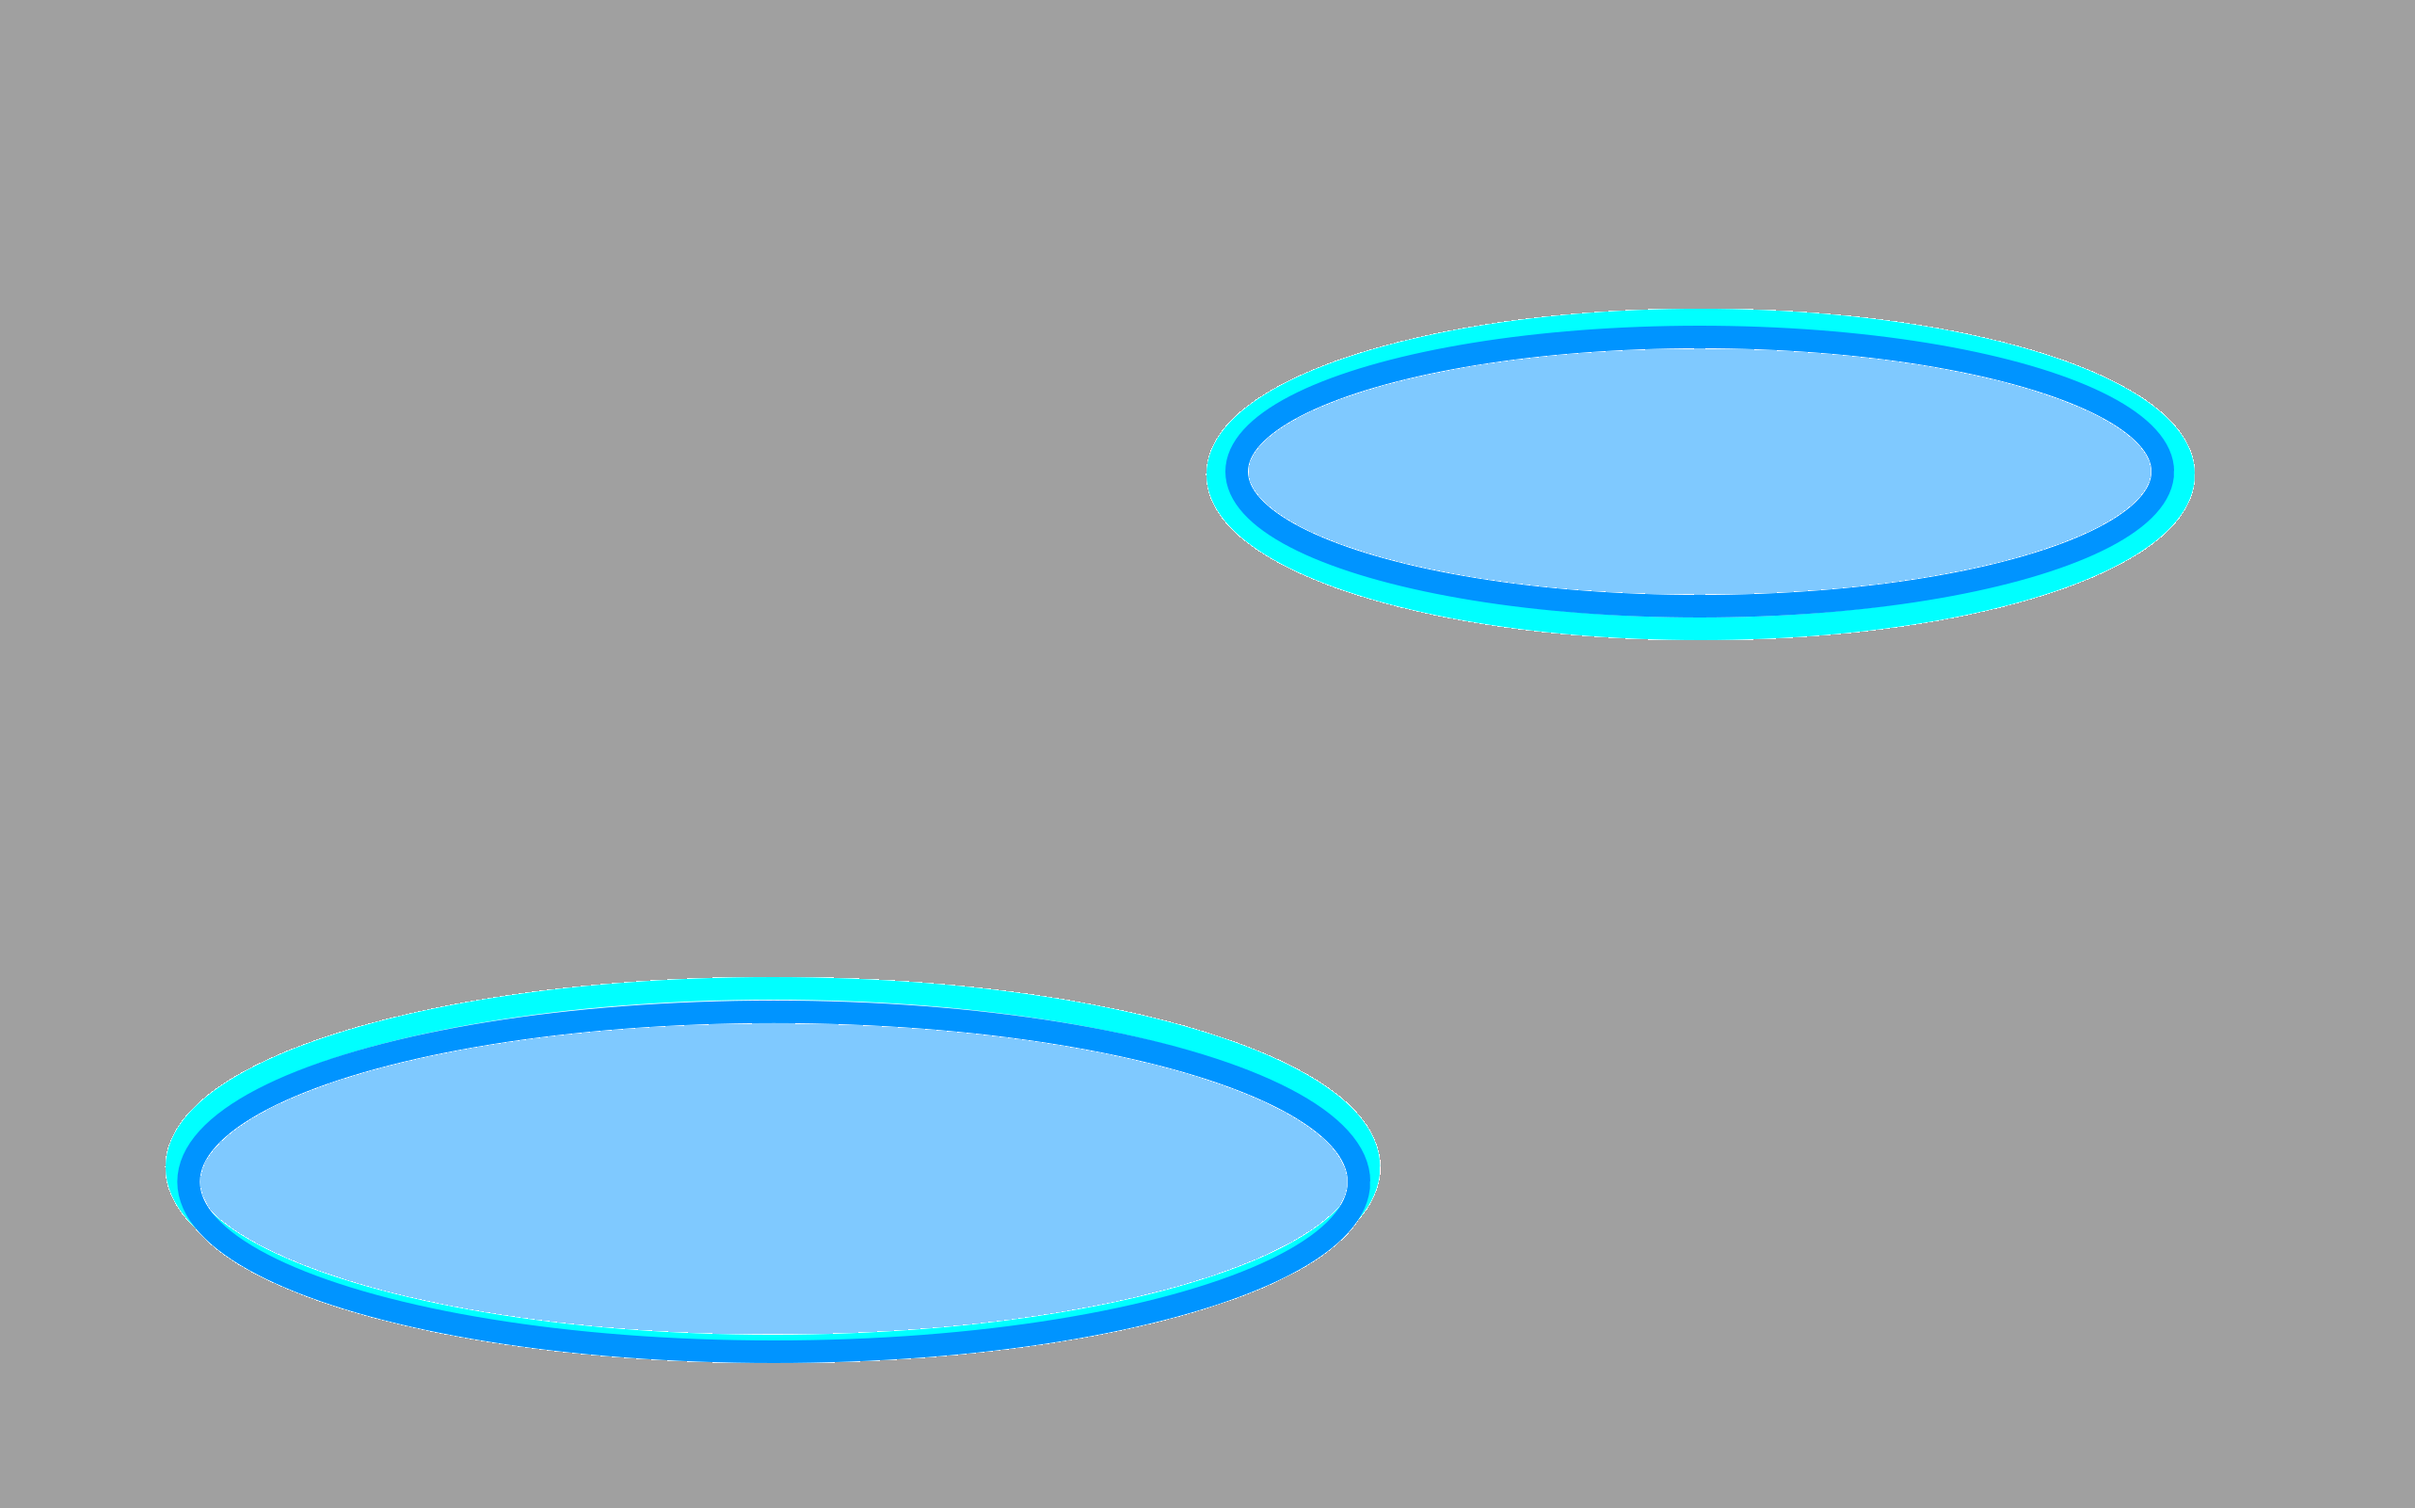
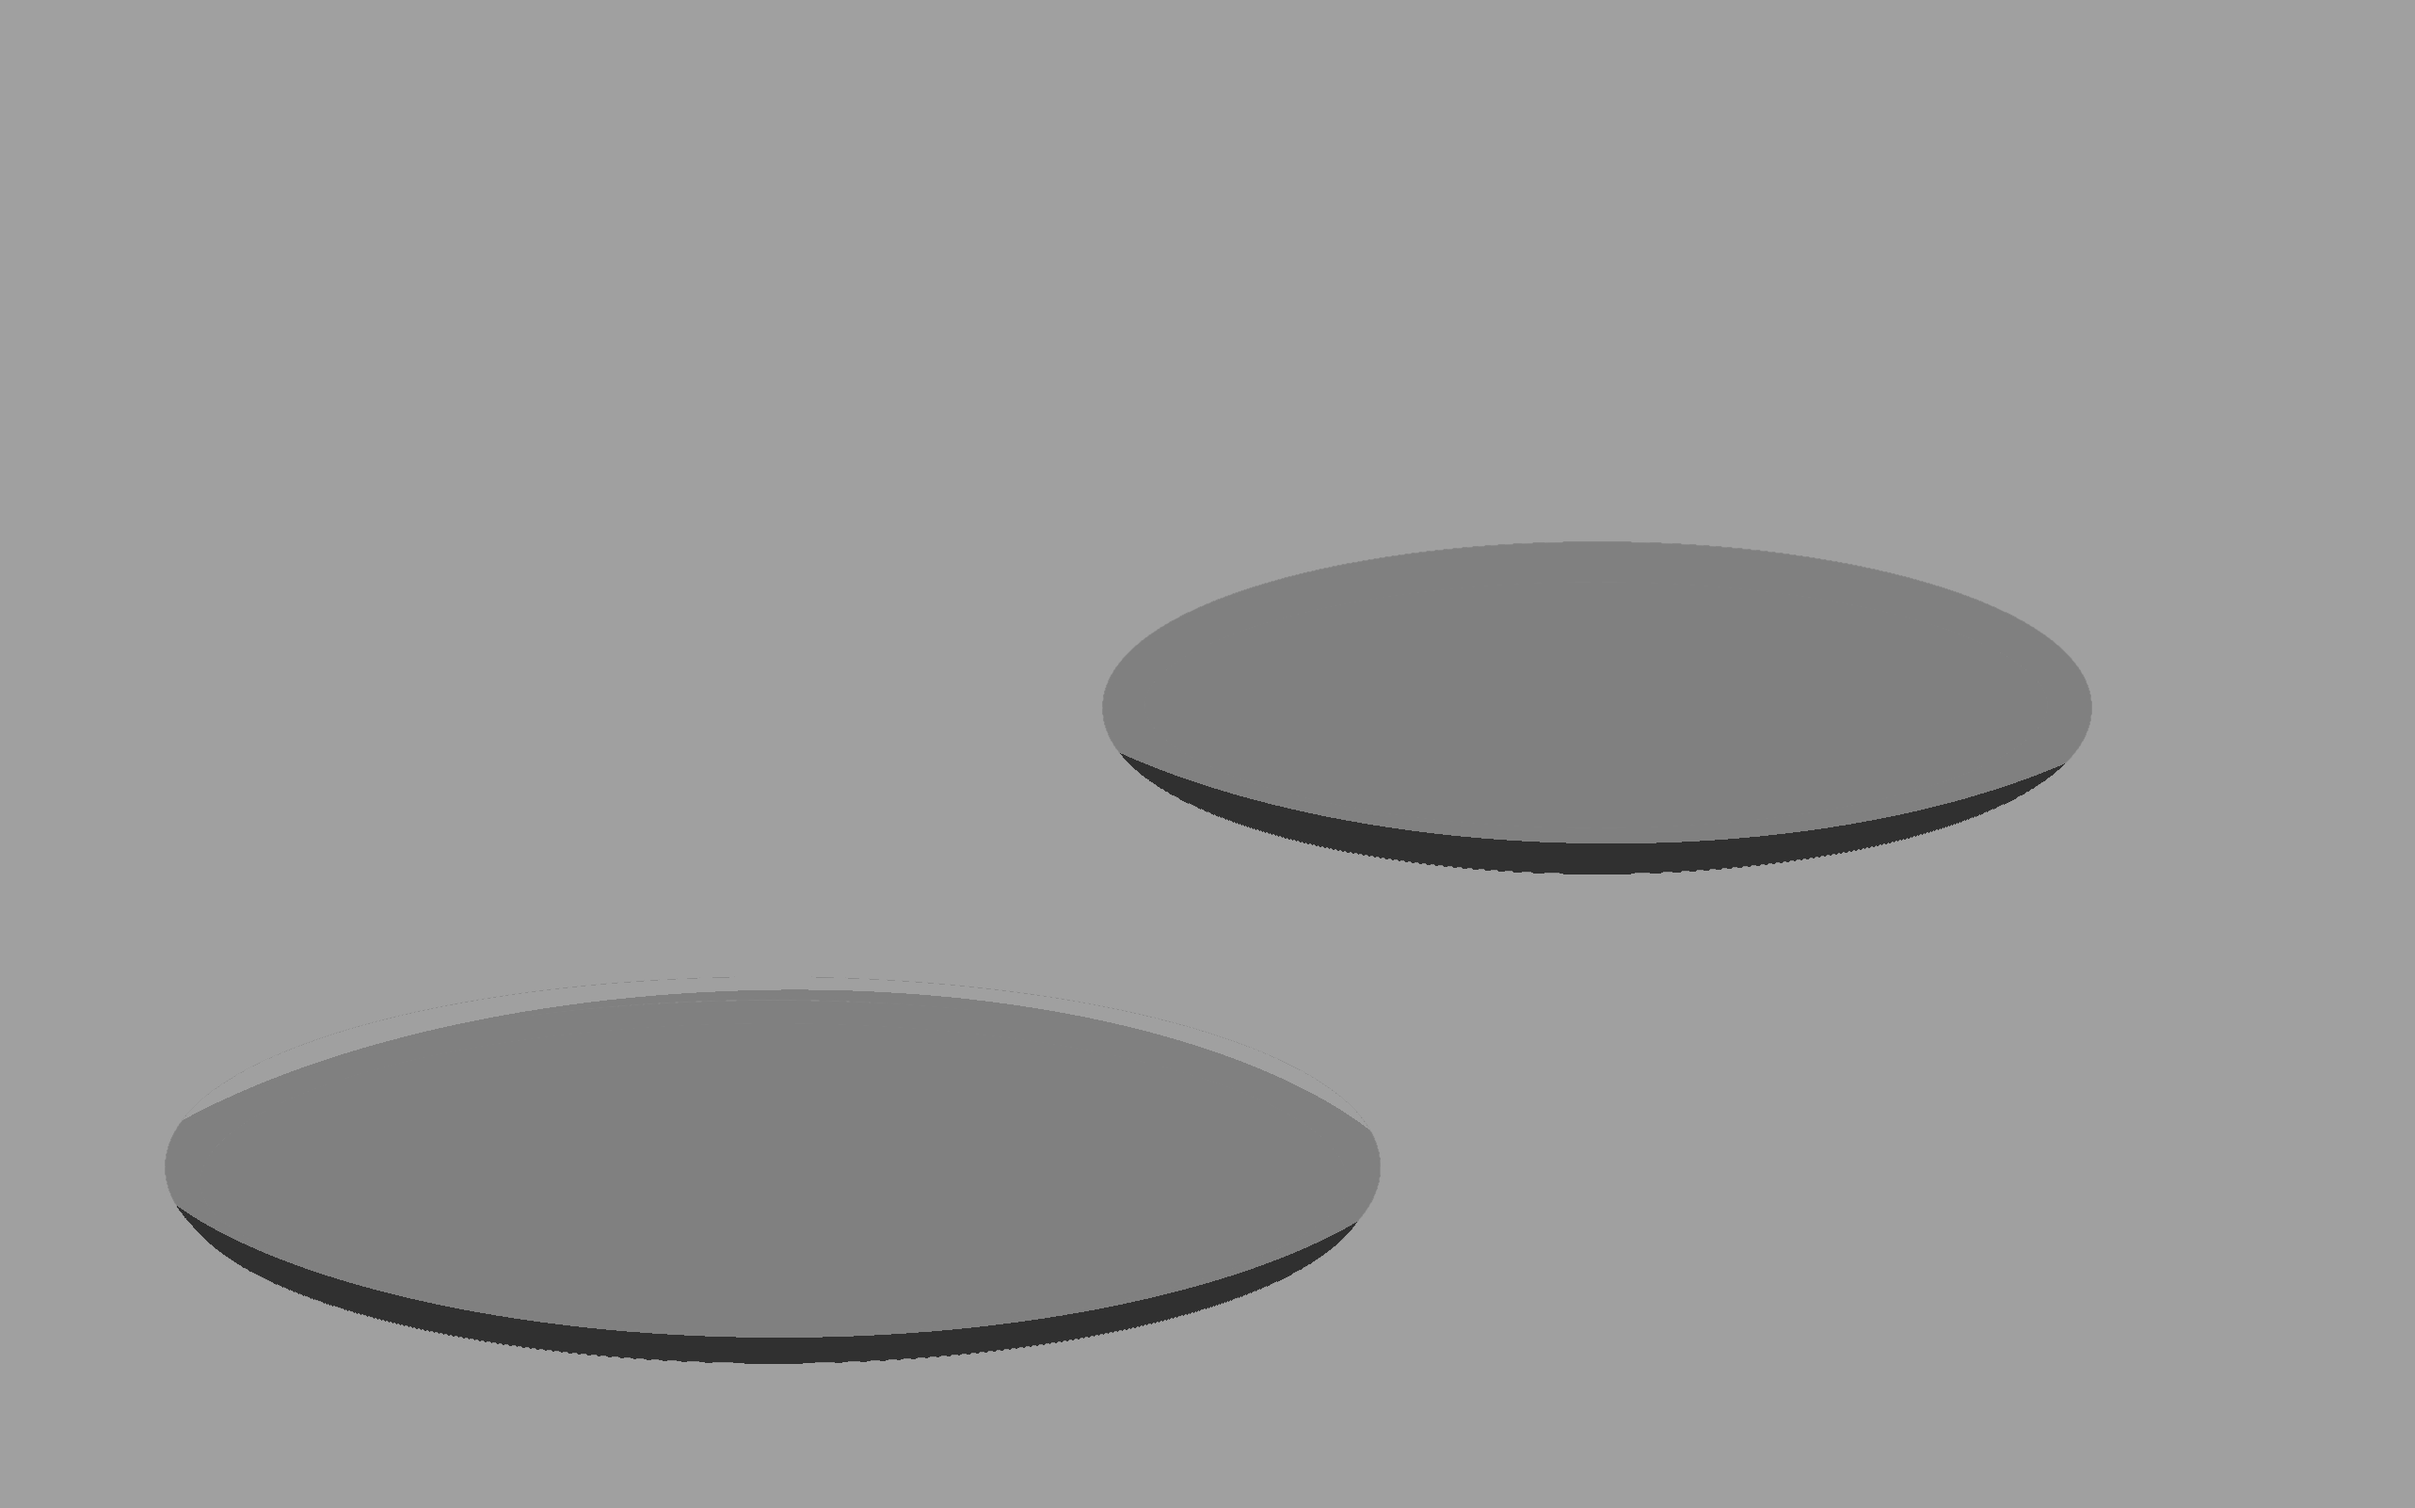
Battle UI prahamoni

Changed region(s): [[0.4365, 0.1873, 0.9041, 0.593], [0.0624, 0.6242, 0.5924, 0.9051]]

diff --git a/gadakecemol.py b/gadakecemol.py
@@ -71,8 +71,17 @@ class Hra:
 
 
         self.prahamon = [
-            npc.Prahamon("Ohnivak", 15)
+            npc.Prahamon("Ptak", 15, 15, 1),
+            npc.Prahamon("Twitter", 15, 15, 2),
+            npc.Prahamon("Twilight", 20, 20, 3),
             # prahamoni
+        ]
+
+        self.protivnici = [
+            npc.Prahamon("Ptak", 10, 15, 1),
+            npc.Prahamon("Twitter", 15, 15, 2),
+            npc.Prahamon("Twilight", 20, 20, 3),
+
         ]
 
         for p in self.prahamon:
@@ -259,18 +268,35 @@ class Hra:
                     self.catch = False
 
             if hra.battle:
-                prahamon = list(prahadex.prahadex.prahamoni.values())[0]
+
                 self.screen.fill((0, 40, 0))
-                self.screen.blit(imgs.battleground, (0,0))
-                self.screen.blit(imgs.battlemenu, (0,0))
-                self.screen.blit(self.font.render(prahamon.name, False, (150, 150, 150)), (922, 372))
-                self.screen.blit(self.font.render(prahamon.name, False, (0, 0, 0)), (920, 370))
-                self.screen.blit(self.font.render(f"HP: {prahamon.hp}", False, (150, 150, 150)), (922, 422))
-                self.screen.blit(self.font.render(f"HP: {prahamon.hp}", False, (0, 0, 0)), (920, 420))
+                self.screen.blit(imgs.battleground, (0, 0))
+
+                prahamon = list(prahadex.prahadex.prahamoni.values())[0]
+                protivnik = self.protivnici[0]
 
                 obrazek = imgs.prahamon_obrazky.get(prahamon.name)
                 if obrazek:
-                    self.screen.blit(obrazek, (200, 500))
+                    self.screen.blit(obrazek, (100, 220))
+
+                imgprotivnika = imgs.prahamon_obrazky.get("Ptak;")
+                if imgprotivnika:
+                    self.screen.blit(imgprotivnika, (622, 33))
+
+
+                self.screen.blit(imgs.battlemenu, (0,0))
+                self.screen.blit(self.font.render(f"{prahamon.name} lvl. {prahamon.lvl}", False, (150, 150, 150)),
+                                 (922, 372))
+                self.screen.blit(self.font.render(f"{prahamon.name} lvl. {prahamon.lvl}", False, (0, 0, 0)), (920, 370))
+                self.screen.blit(self.font.render(f"HP: {prahamon.hp}/{prahamon.maxhp}", False, (150, 150, 150)),
+                                 (922, 422))
+                self.screen.blit(self.font.render(f"HP: {prahamon.hp}/{prahamon.maxhp}", False, (0, 0, 0)), (920, 420))
+                self.screen.blit(self.font.render(f"{protivnik.name} lvl. {protivnik.lvl}", False, (150, 150, 150)),
+                                 (68, 74))
+                self.screen.blit(self.font.render(f"{protivnik.name} lvl. {protivnik.lvl}", False, (0, 0, 0)), (66, 72))
+                self.screen.blit(self.font.render(f"HP: {protivnik.hp}/{protivnik.maxhp}", False, (150, 150, 150)),
+                                 (68, 124))
+                self.screen.blit(self.font.render(f"HP: {protivnik.hp}/{protivnik.maxhp}", False, (0, 0, 0)), (66, 122))
 
             # pygame.draw.rect(self.screen, (0, 0, 0), (1060 - self.camera_x, 0 - self.camera_y, 820, 400), 2)
 

diff --git a/nastaveni.py b/nastaveni.py
@@ -17,7 +17,7 @@ def img(path, size=None):
 velikost_postavy = (96, 96)
 
 oak = img("obrazky/oak.png", (51,64))
-ptak = img("obrazky/ptak.png", (51, 64))
+
 ohnivak = img("obrazky/oak.png", (51, 64))
 cong = img("obrazky/cong.png", (51, 66))
 babisek = img("obrazky/babisek.png", (92, 70))
@@ -72,7 +72,17 @@ pivko = img("obrazky/prahabally/pivko.png", (24, 45))
 
 # sem proste davej ty obrazky ono by se to pak moc stradalo, az toho bude vic rozdelime to do vic categories
 
+# ---- PRAHAMONI -----
+
+ptakzepredu = img("obrazky/prahamoni/ptakpredek.png", (440, 380))
+ptak = img("obrazky/prahamoni/ptak.png", (480, 480))
+twitter = img("obrazky/prahamoni/twitter.png", (480, 480))
+twilight = img("obrazky/prahamoni/twilight.png", (480, 480))
+
 prahamon_obrazky = {
+    "Ptak;": ptakzepredu,
     "Ptak": ptak,
+    "Twitter": twitter,
+    "Twilight": twilight,
     "Ohnivak": ohnivak,
 }

diff --git a/eventy.py b/eventy.py
@@ -116,7 +116,15 @@ def handle(hra, event):
                     hra.poziceinventare += 1
                     if hra.poziceinventare > hra.inventar_offset + 4:
                         hra.inventar_offset += 1
-
+            if event.key == pygame.K_e:
+                prahamoni = list(prahadex.prahadex.prahamoni.values())
+                if prahamoni and hra.poziceinventare <= len(prahamoni):
+                    vybran = prahamoni[hra.poziceinventare - 1]
+                    del prahadex.prahadex.prahamoni[vybran.name]
+                    prvni = {vybran.name: vybran}
+                    for stary, novy in prahadex.prahadex.prahamoni.items():
+                        prvni[stary] = novy
+                    prahadex.prahadex.prahamoni = prvni
         if hra.show_mapa:
             if event.key == pygame.K_ESCAPE:
                 hra.show_mapa = False

diff --git a/npc.py b/npc.py
@@ -24,8 +24,8 @@ class Npc:
 
 
 class Prahamon:
-    def __init__(self, name, hp):
+    def __init__(self, name, hp, maxhp, lvl):
         self.name = name
         self.hp = hp
-
-
+        self.maxhp = maxhp
+        self.lvl = lvl
